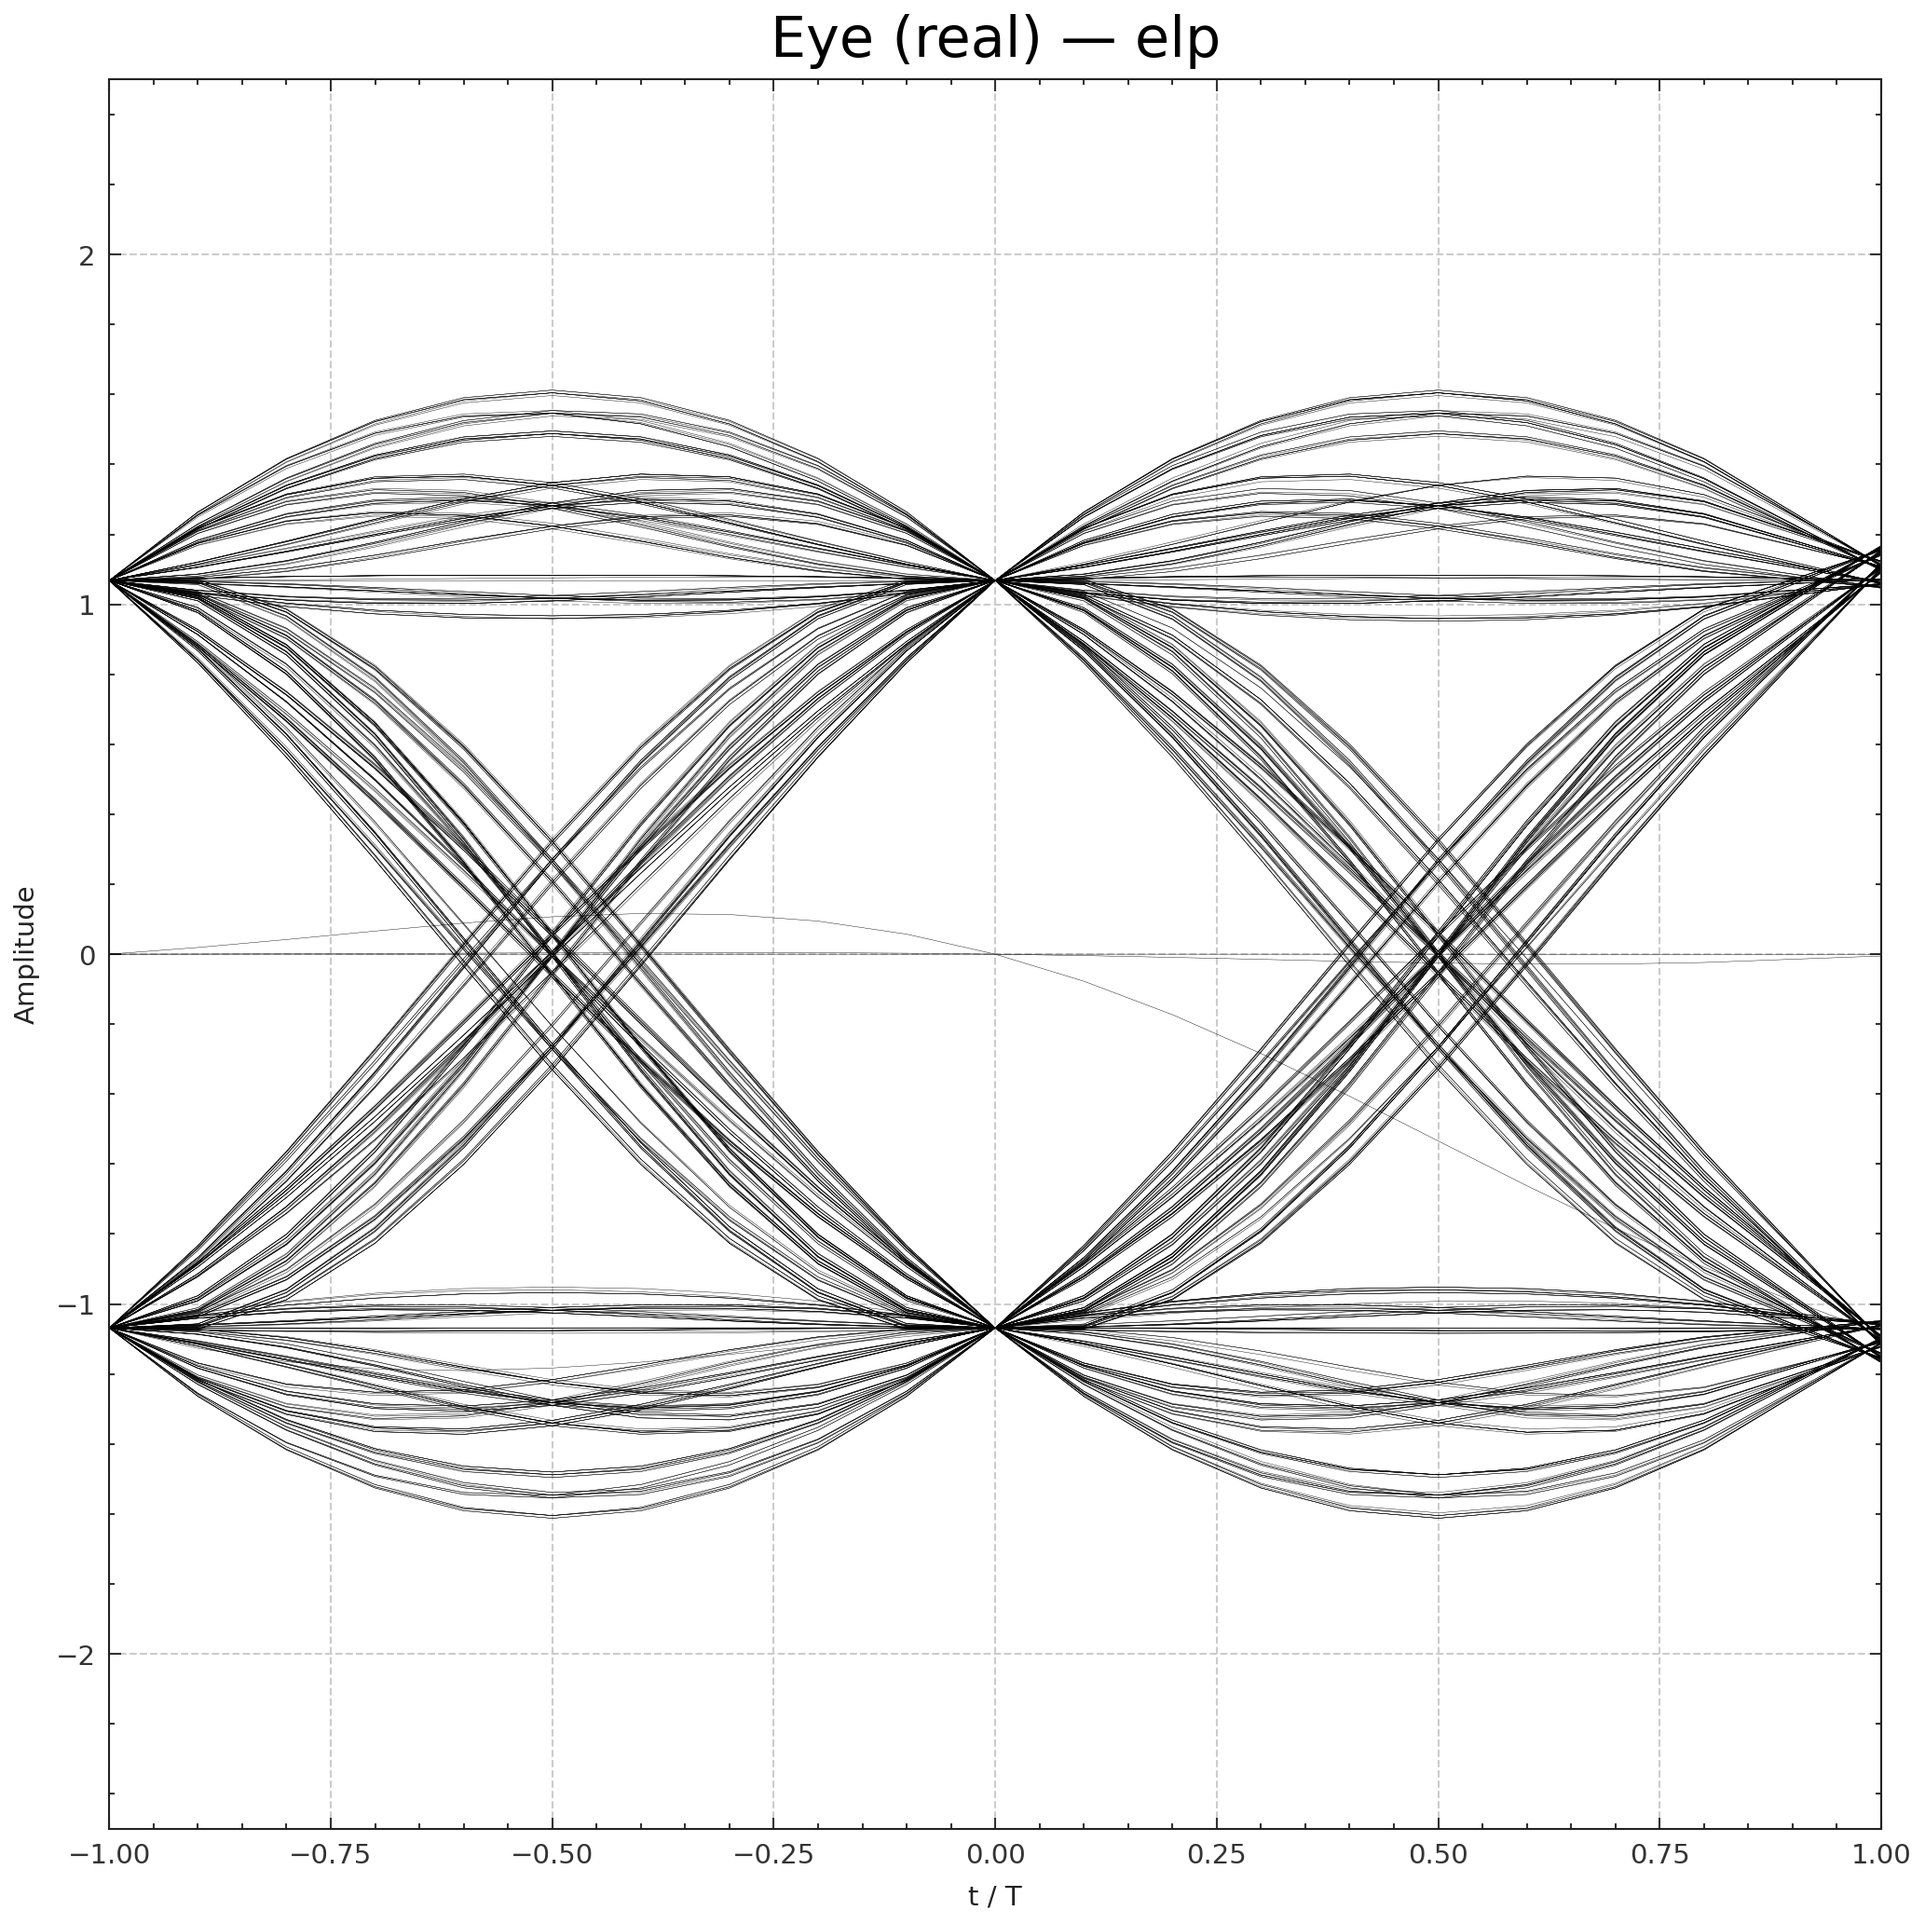
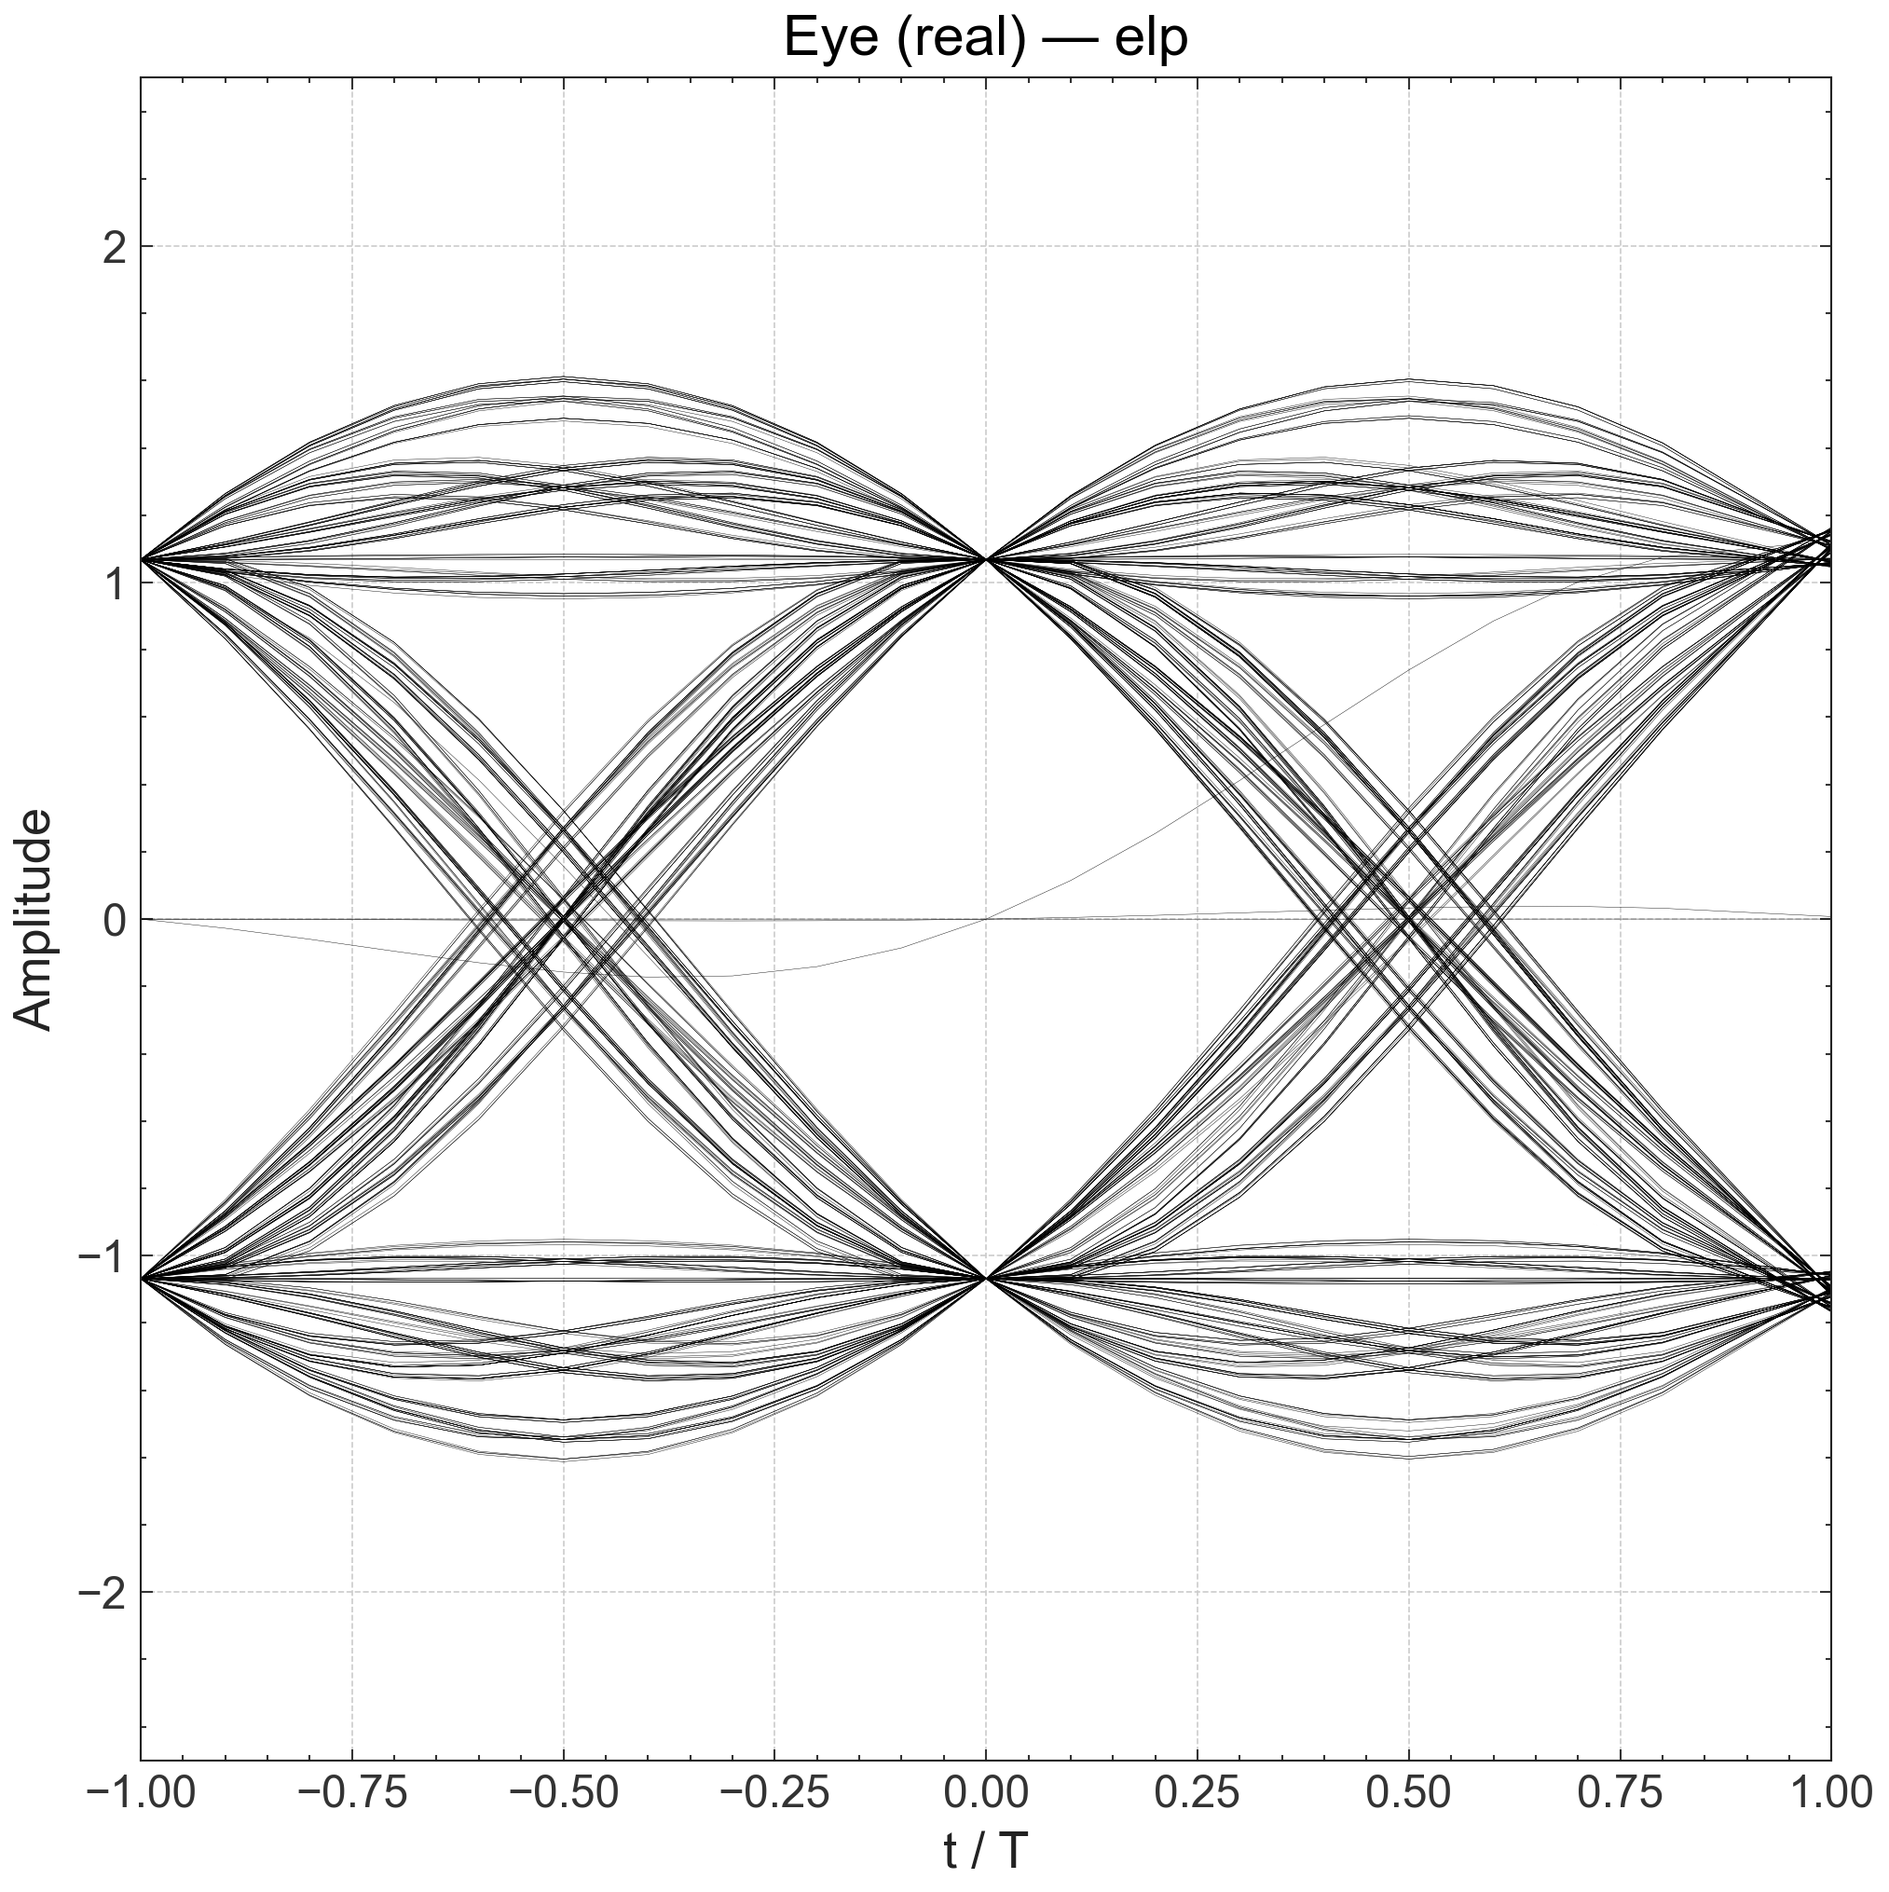
added max. distortion calculation

diff --git a/src/eye_utils.py b/src/eye_utils.py
@@ -10,6 +10,11 @@ def generate_qpsk_symbols(n: int, rng: Optional[np.random.Generator] = None) -> 
     bits_q = rng.integers(0, 2, n, dtype=int)
     return (2 * bits_i - 1) + 1j * (2 * bits_q - 1)
 
+def generate_bpsk_symbols(n: int, rng: Optional[np.random.Generator] = None) -> np.ndarray:
+    rng = rng or np.random.default_rng()
+    bits = rng.integers(0, 2, n)
+    return 2 * bits - 1  # BPSK: ±1
+
 def _resolve_pulse(pulse_ref: Union[str, Callable]) -> Callable:
     if callable(pulse_ref):
         return pulse_ref
@@ -20,7 +25,7 @@ def _resolve_pulse(pulse_ref: Union[str, Callable]) -> Callable:
 def eye_diagram(
     pulse: Union[str, Callable],
     *,
-    alpha: float = 0.35,
+    alpha: float = 0.22,
     fs: int = 10,
     span_T: float = 10,
     n_symbols: int = 100_000,
@@ -70,7 +75,7 @@ def eye_diagram(
     last = eye[:, -1]
     second_last = eye[:, -2]
     extra = last + (last - second_last)
-    eye = np.hstack([eye, extra[:, None]])
+    eye = np.hstack([eye, extra[:, None]]) # Agrega un punto al final para asegurar t_eye tiene misma longitud que eye row
 
     if show:
         plt.figure(figsize=(8, 3 * len(parts)))
@@ -87,3 +92,68 @@ def eye_diagram(
         plt.show()
 
     return eye, t_eye
+
+
+
+def compute_max_distortion_analytical(
+    pulse: Union[str, Callable],
+    alpha: float,
+    span_T: int = 10,
+    T: float = 1.0,
+    tau: float = 0.5,
+    normalize: str = "continuous",
+    **pulse_kwargs
+) -> float:
+    """
+    Compute the maximum ISI distortion by analytically evaluating the pulse
+    at interfering symbol positions offset by tau.
+
+    Parameters
+    ----------
+    pulse : str or Callable
+        Pulse shape (either a registered name or function).
+    alpha : float
+        Roll-off or shaping parameter.
+    span_T : int
+        Number of symbols to span (±span_T).
+    T : float
+        Symbol duration.
+    tau : float
+        Timing offset (as a multiple of T, default = 0.5).
+    normalize : str
+        Normalization method ('amplitude', 'discrete', 'continuous').
+    **pulse_kwargs
+        Additional arguments for the pulse function.
+
+    Returns
+    -------
+    float
+        Maximum ISI distortion: sum of absolute values of off-center samples.
+    """
+    pulse_fn = PULSE_FNS[pulse] if isinstance(pulse, str) else pulse
+
+    # Time offsets (exclude k=0 to avoid main tap)
+    k_vals = np.arange(-span_T, span_T + 1)
+    k_vals = k_vals[k_vals != 0]
+    t_isi = k_vals * T + tau * T
+
+    # Evaluate pulse at ISI tap positions
+    h_isi = pulse_fn(t_isi, alpha=alpha, T=T, **pulse_kwargs)
+
+    # Normalize (optional, for fair comparison)
+    if normalize == "amplitude":
+        h_isi = h_isi / np.max(np.abs(pulse_fn(np.array([0.0]), alpha=alpha, T=T, **pulse_kwargs)))
+    elif normalize == "discrete":
+        t_grid = np.linspace(-span_T * T, span_T * T, 10000)
+        h_grid = pulse_fn(t_grid, alpha=alpha, T=T, **pulse_kwargs)
+        energy = np.sum(h_grid ** 2)
+        h_isi = h_isi / np.sqrt(energy)
+    elif normalize == "continuous":
+        t_grid = np.linspace(-span_T * T, span_T * T, 10000)
+        h_grid = pulse_fn(t_grid, alpha=alpha, T=T, **pulse_kwargs)
+        dt = t_grid[1] - t_grid[0]
+        energy = np.trapz(h_grid**2, dx=dt)
+        h_isi = h_isi / np.sqrt(energy)
+
+    # Compute max distortion (worst-case ISI)
+    return np.sum(np.abs(h_isi))

diff --git a/src/main.py b/src/main.py
@@ -5,7 +5,7 @@ from plot_utils import (
 )
 from styles import set_plot_style
 from ber_toolbox import ber_isi_closed_form
-
+from eye_utils import compute_max_distortion_analytical
 # ──────────────────────────────────────────────────────────────
 # 1. Style setup
 set_plot_style("prism_rain")
@@ -16,7 +16,7 @@ span_T   = 10
 ovs      = 20
 nfft     = 2048
 T        = 1.0
-alpha    = 0.5
+alpha    = 0.35
 normalize = "amplitude"
 freq_axis = "fB"  # Can be "fT" or "fB"
 
@@ -104,6 +104,10 @@ plot_pulse_markers(
     f_db_xlim=(-10,10)
 )
 
+
+for pulse in ["raised_cosine", "btrc", "elp", "iplcp"]:
+    d = compute_max_distortion_analytical(pulse, alpha=0.35)
+    print(f"{pulse}: max ISI distortion = {d:.4e}")
 
 # ──────────────────────────────────────────────────────────────
 # 4. Closed‑form BER for Raised‑Cosine

diff --git a/src/plot_utils.py b/src/plot_utils.py
@@ -211,7 +211,6 @@ def plot_eye_traces(
     max_traces: int = 500,
     pulse_kwargs: Optional[dict] = None,
     parts: Sequence[str] = ("real",),
-    style: str = "default",
     prefix: str = "",
     show: bool = True,
     savefig: bool = True,
@@ -267,7 +266,6 @@ def plot_eye_traces(
     )
 
     # ------------------------------------------------------------------ plot
-    set_plot_style(style)
     n_parts = len(parts)
     fig, axes = plt.subplots(
         n_parts, 1, figsize=(figsize[0], figsize[1] * n_parts),
